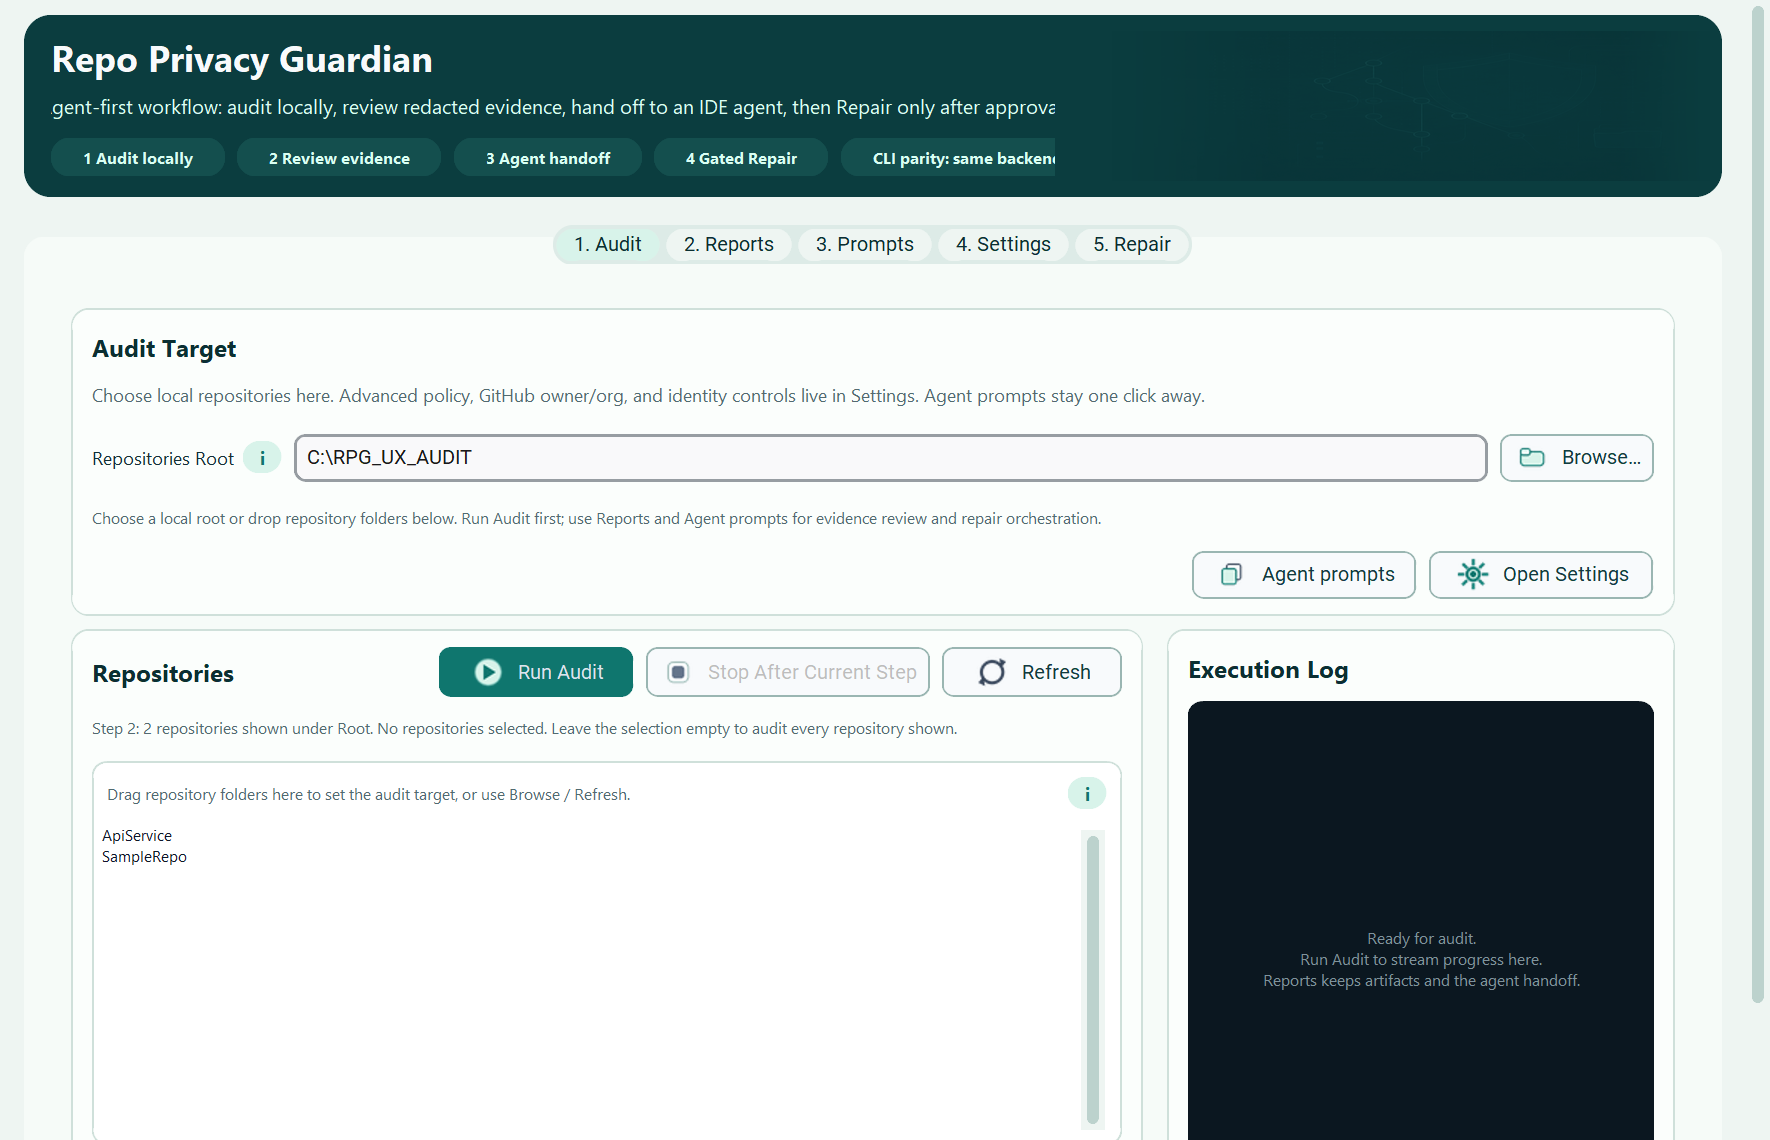
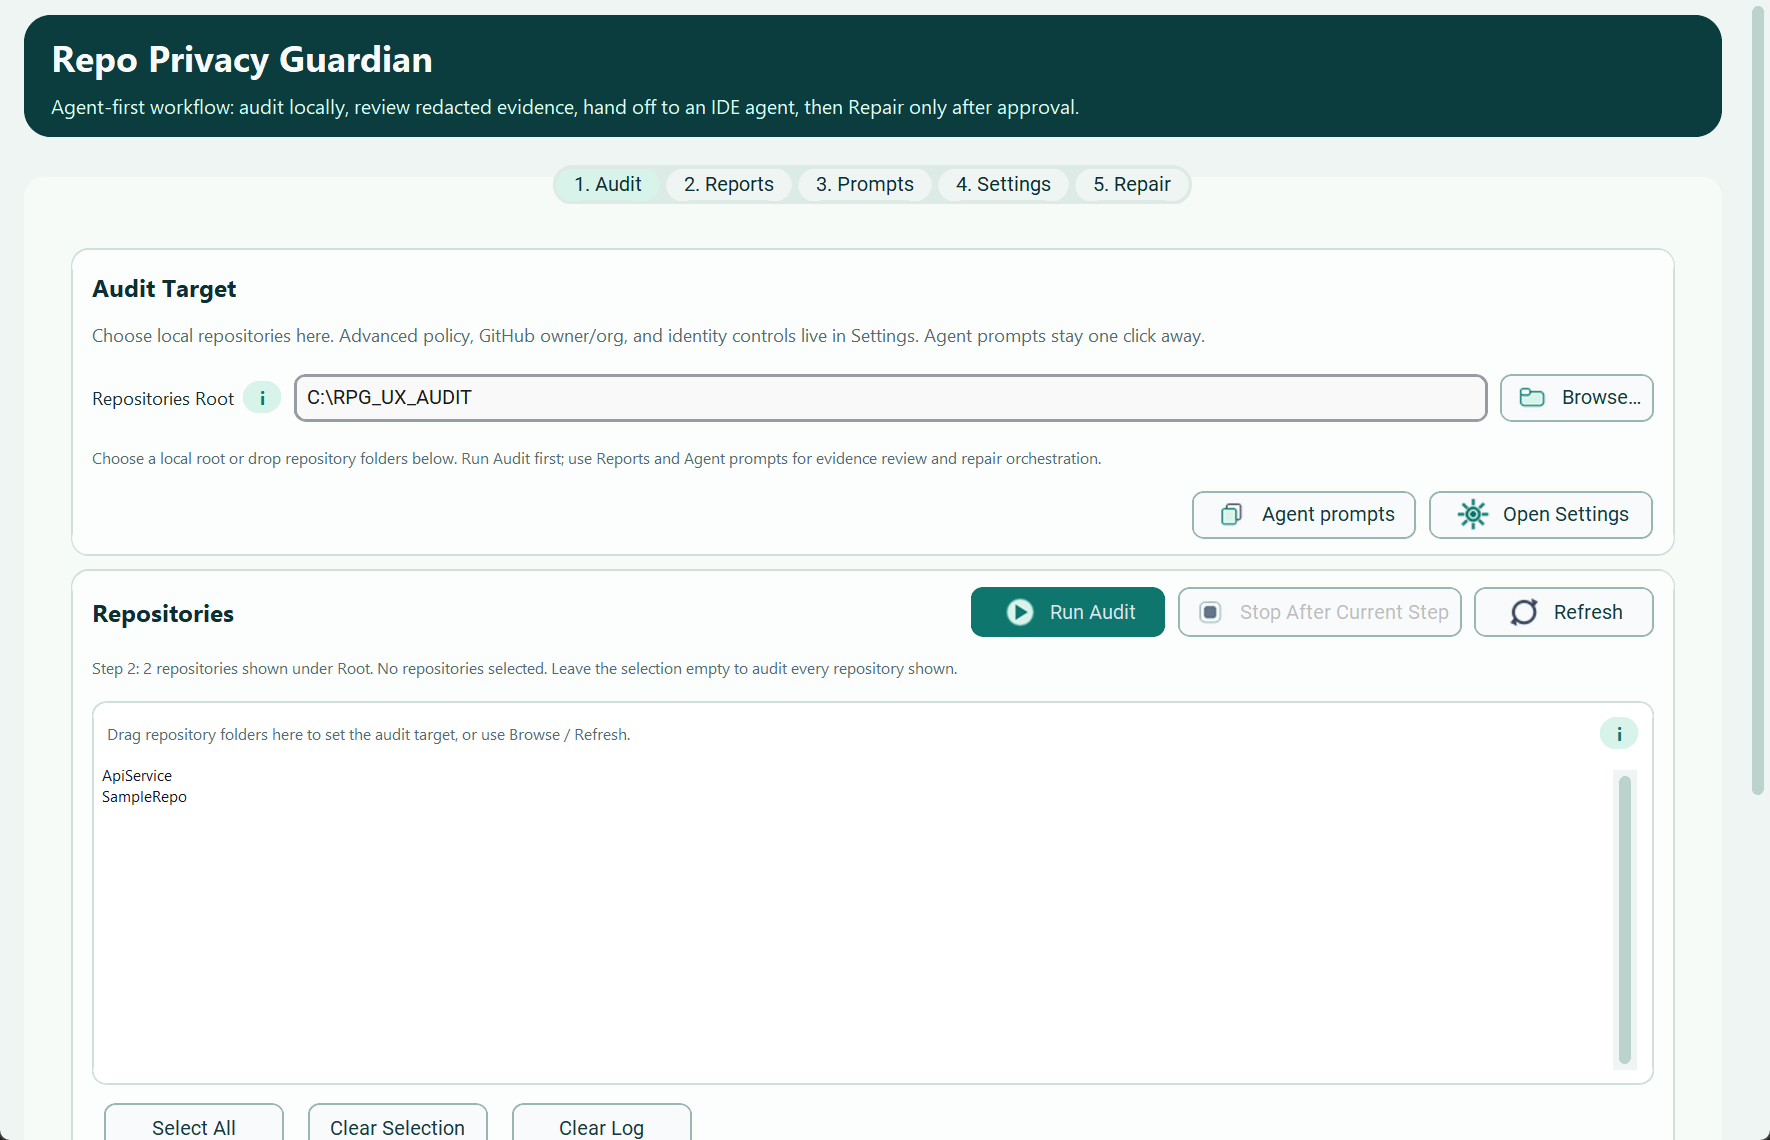
Harden responsive GUI prompts layout

diff --git a/tests/test_release_contract.py b/tests/test_release_contract.py
@@ -1144,18 +1144,131 @@ def test_gui_header_flow_strip_hides_on_compact_layout() -> None:
     assert strip.actions == ["grid_remove", "grid"]
 
 
-def test_gui_logical_window_width_uses_tk_geometry_without_dpi_double_scaling() -> None:
+def test_gui_logical_window_width_normalizes_high_dpi_geometry_once() -> None:
     class DummyRoot:
         def wm_geometry(self) -> str:
-            return "1440x860+30+30"
+            return "2160x1290+30+30"
 
         def winfo_width(self) -> int:
             return 900
 
+    class DummyScalingTracker:
+        @staticmethod
+        def get_window_scaling(_root: object) -> float:
+            return 1.5
+
+    class DummyCtk:
+        ScalingTracker = DummyScalingTracker
+
     app = object.__new__(rpg.GuiApp)
     app.root = DummyRoot()
+    app.ctk = DummyCtk()
 
     assert app._get_logical_window_width() == 1440
+
+
+def test_gui_prompt_cards_stack_on_compact_layout() -> None:
+    app = object.__new__(rpg.GuiApp)
+    app._prompts_stack_width_threshold = 1240
+
+    assert app._prompt_card_columns_for_width(1180) == 1
+    assert app._prompt_card_columns_for_width(1440) == 2
+
+
+def test_gui_prompt_workflow_guide_stacks_and_hides_visual_on_compact_layout() -> None:
+    class DummyGuide:
+        def __init__(self) -> None:
+            self.columns: list[tuple[int, dict[str, object]]] = []
+
+        def grid_columnconfigure(self, column: int, **kwargs: object) -> None:
+            self.columns.append((column, kwargs))
+
+    class DummyWidget:
+        def __init__(self) -> None:
+            self.grid_calls: list[dict[str, object]] = []
+            self.removed = False
+
+        def grid(self, **kwargs: object) -> None:
+            self.grid_calls.append(kwargs)
+            self.removed = False
+
+        def grid_remove(self) -> None:
+            self.removed = True
+
+    guide = DummyGuide()
+    title = DummyWidget()
+    body = DummyWidget()
+    visual = DummyWidget()
+    app = object.__new__(rpg.GuiApp)
+    app._prompts_workflow_guide = guide
+    app._prompts_workflow_title_label = title
+    app._prompts_workflow_body_label = body
+    app._prompts_visual_label = visual
+
+    app._apply_prompts_workflow_layout(compact=True)
+
+    assert guide.columns[-2:] == [(0, {"weight": 1}), (1, {"weight": 0})]
+    assert title.grid_calls[-1]["row"] == 0
+    assert title.grid_calls[-1]["column"] == 0
+    assert body.grid_calls[-1]["row"] == 1
+    assert body.grid_calls[-1]["column"] == 0
+    assert visual.removed is True
+
+    app._apply_prompts_workflow_layout(compact=False)
+
+    assert guide.columns[-2:] == [(0, {"weight": 0}), (1, {"weight": 1})]
+    assert body.grid_calls[-1]["row"] == 0
+    assert body.grid_calls[-1]["column"] == 1
+    assert visual.removed is False
+
+
+def test_gui_responsive_prompt_layout_regrids_without_rebuilding_cards() -> None:
+    class DummyRoot:
+        def wm_geometry(self) -> str:
+            return "1770x1140+40+40"
+
+        def winfo_width(self) -> int:
+            return 1770
+
+    class DummyScalingTracker:
+        @staticmethod
+        def get_window_scaling(_root: object) -> float:
+            return 1.5
+
+    class DummyCtk:
+        ScalingTracker = DummyScalingTracker
+
+    calls: list[tuple[str, object]] = []
+    app = object.__new__(rpg.GuiApp)
+    app.root = DummyRoot()
+    app.ctk = DummyCtk()
+    app._gui_destroying = False
+    app._top_stack_width_threshold = 1220
+    app._options_stack_width_threshold = 1220
+    app._results_stack_width_threshold = 1240
+    app._prompts_stack_width_threshold = 1240
+    app._prompt_card_column_count = 2
+    app._apply_header_flow_layout = lambda compact: calls.append(("header", compact))
+    app._apply_top_layout = lambda compact: calls.append(("top", compact))
+    app._apply_identity_actions_layout = lambda compact: calls.append(("identity", compact))
+    app._apply_options_layout = lambda compact: calls.append(("options", compact))
+    app._apply_results_layout = lambda compact: calls.append(("results", compact))
+    app._apply_prompts_workflow_layout = lambda compact: calls.append(("prompt_workflow", compact))
+    app._apply_prompt_cards_layout = lambda columns: calls.append(("prompt_cards", columns))
+    app._refresh_prompt_cards = lambda: (_ for _ in ()).throw(AssertionError("resize must not rebuild cards"))
+
+    app._apply_responsive_layout()
+
+    assert ("prompt_workflow", True) in calls
+    assert ("prompt_cards", 1) in calls
+
+
+def test_gui_resize_ignores_callbacks_while_root_is_destroying() -> None:
+    app = object.__new__(rpg.GuiApp)
+    app._gui_destroying = True
+    app._apply_responsive_layout = lambda: (_ for _ in ()).throw(AssertionError("destroying root must not relayout"))
+
+    app._on_root_resize(object())
 
 
 def test_gui_advanced_identity_settings_are_collapsible() -> None:

diff --git a/Repo_Privacy_Guardian.py b/Repo_Privacy_Guardian.py
@@ -7190,6 +7190,7 @@ class GuiApp:  # pragma: no cover
         self._top_stack_width_threshold = 1220
         self._options_stack_width_threshold = 1220
         self._results_stack_width_threshold = 1240
+        self._prompts_stack_width_threshold = 1240
         self.root.geometry(f"{window_w}x{window_h}+{window_x}+{window_y}")
         self.root.minsize(min(1180, screen_w), min(700, screen_h))
         self.root.maxsize(screen_w, screen_h)
@@ -7339,6 +7340,12 @@ class GuiApp:  # pragma: no cover
         self._reports_agent_handoff_button = None
         self._reports_action_buttons: list[object] = []
         self._prompt_cards_frame = None
+        self._prompt_card_widgets: list[object] = []
+        self._prompt_card_column_count = 2
+        self._prompts_workflow_guide = None
+        self._prompts_workflow_title_label = None
+        self._prompts_workflow_body_label = None
+        self._gui_destroying = False
         self._header_visual_label = None
         self._reports_visual_label = None
         self._prompts_visual_label = None
@@ -8817,6 +8824,7 @@ class GuiApp:  # pragma: no cover
 
         self.refresh_repos()
         self.root.bind("<Configure>", self._on_root_resize)
+        self.root.bind("<Destroy>", self._on_root_destroy, add="+")
         self.root.after(0, self._apply_responsive_layout)
         self._lock_repair_until_next_audit()
         self._set_active_flow_tab(self._audit_tab_name)
@@ -9247,9 +9255,10 @@ class GuiApp:  # pragma: no cover
             border_width=1,
             border_color=self._info_panel_border,
         )
+        self._prompts_workflow_guide = workflow_guide
         workflow_guide.grid(row=2, column=0, columnspan=2, sticky="we", padx=14, pady=(0, 12))
         workflow_guide.grid_columnconfigure(1, weight=1)
-        self._localize_widget(ctk.CTkLabel(
+        workflow_title_label = self._localize_widget(ctk.CTkLabel(
             workflow_guide,
             text=self._t("agent_workflow_title"),
             height=28,
@@ -9258,8 +9267,9 @@ class GuiApp:  # pragma: no cover
             text_color=self._success_text,
             font=self._font(11, bold=True),
             padx=12,
-        ), "text", "agent_workflow_title").grid(row=0, column=0, sticky="w", padx=10, pady=10)
-        self._localize_widget(ctk.CTkLabel(
+        ), "text", "agent_workflow_title")
+        self._prompts_workflow_title_label = workflow_title_label
+        workflow_body_label = self._localize_widget(ctk.CTkLabel(
             workflow_guide,
             text=self._t("agent_workflow_body"),
             justify="left",
@@ -9267,11 +9277,16 @@ class GuiApp:  # pragma: no cover
             wraplength=1040,
             font=self._font(12),
             text_color=self._text_body,
-        ), "text", "agent_workflow_body").grid(row=0, column=1, sticky="we", padx=(0, 10), pady=10)
+        ), "text", "agent_workflow_body")
+        self._prompts_workflow_body_label = workflow_body_label
+        self._apply_prompts_workflow_layout(compact=self._prompt_card_columns_for_width(self._get_logical_window_width()) == 1)
         self._prompt_cards_frame = ctk.CTkFrame(prompts_card, fg_color="transparent")
         self._prompt_cards_frame.grid(row=3, column=0, columnspan=2, sticky="we", padx=14, pady=(0, 12))
-        self._prompt_cards_frame.grid_columnconfigure((0, 1), weight=1)
         self._refresh_prompt_cards()
+
+    def _prompt_card_columns_for_width(self, width: int) -> int:
+        threshold = int(getattr(self, "_prompts_stack_width_threshold", 1240))
+        return 1 if width <= threshold else 2
 
     def _refresh_prompt_cards(self) -> None:
         cards_frame = getattr(self, "_prompt_cards_frame", None)
@@ -9279,11 +9294,12 @@ class GuiApp:  # pragma: no cover
             return
         for child in cards_frame.winfo_children():
             child.destroy()
+        self._prompt_card_widgets = []
+
+        columns = self._prompt_card_columns_for_width(self._get_logical_window_width())
 
         repo_root = Path(__file__).resolve().parent
         for idx, prompt in enumerate(prompt_helpers.agentic_prompt_cards(self._current_locale())):
-            row = idx // 2
-            column = idx % 2
             card = self.ctk.CTkFrame(
                 cards_frame,
                 fg_color=self._surface_alt,
@@ -9291,7 +9307,7 @@ class GuiApp:  # pragma: no cover
                 border_width=1,
                 border_color=self._card_border,
             )
-            card.grid(row=row, column=column, sticky="nsew", padx=(0 if column == 0 else 8, 8 if column == 0 else 0), pady=(0, 8))
+            self._prompt_card_widgets.append(card)
             card.grid_columnconfigure(0, weight=1)
             self.ctk.CTkLabel(
                 card,
@@ -9356,6 +9372,24 @@ class GuiApp:  # pragma: no cover
             )
             self._bind_tooltip_key(open_prompt_button, "open_prompt_file")
             open_prompt_button.grid(row=0, column=2, sticky="w")
+        self._apply_prompt_cards_layout(columns)
+
+    def _apply_prompt_cards_layout(self, columns: int) -> None:
+        cards_frame = getattr(self, "_prompt_cards_frame", None)
+        if cards_frame is None:
+            return
+        safe_columns = 1 if columns <= 1 else 2
+        self._prompt_card_column_count = safe_columns
+        for column_index in range(2):
+            cards_frame.grid_columnconfigure(column_index, weight=1 if column_index < safe_columns else 0)
+        for idx, card in enumerate(getattr(self, "_prompt_card_widgets", [])):
+            row = idx // safe_columns
+            column = idx % safe_columns
+            if safe_columns == 1:
+                padx = (0, 0)
+            else:
+                padx = (0 if column == 0 else 8, 8 if column == 0 else 0)
+            card.grid(row=row, column=column, sticky="nsew", padx=padx, pady=(0, 8))
 
     def _copy_text_to_clipboard(self, text: str, success_message: str) -> None:
         try:
@@ -9913,19 +9947,37 @@ class GuiApp:  # pragma: no cover
             width = int(width_text)
         except ValueError:
             width = self.root.winfo_width()
-        return max(0, int(width))
+        scale = 1.0
+        try:
+            scale = float(self.ctk.ScalingTracker.get_window_scaling(self.root))
+        except Exception:
+            pass
+        safe_scale = scale if scale > 0 else 1.0
+        return max(0, int(round(width / safe_scale)))
 
     def _on_root_resize(self, event) -> None:
         del event
+        if getattr(self, "_gui_destroying", False):
+            return
         self._apply_responsive_layout()
 
+    def _on_root_destroy(self, event) -> None:
+        if getattr(event, "widget", None) is self.root:
+            self._gui_destroying = True
+
     def _apply_responsive_layout(self) -> None:
+        if getattr(self, "_gui_destroying", False):
+            return
         width = self._get_logical_window_width()
         self._apply_header_flow_layout(compact=width <= self._top_stack_width_threshold)
         self._apply_top_layout(compact=width <= self._top_stack_width_threshold)
         self._apply_identity_actions_layout(compact=width <= self._top_stack_width_threshold)
         self._apply_options_layout(compact=width <= self._options_stack_width_threshold)
         self._apply_results_layout(compact=width <= self._results_stack_width_threshold)
+        prompt_columns = self._prompt_card_columns_for_width(width)
+        self._apply_prompts_workflow_layout(compact=prompt_columns == 1)
+        if prompt_columns != getattr(self, "_prompt_card_column_count", 2):
+            self._apply_prompt_cards_layout(prompt_columns)
 
     def _apply_header_flow_layout(self, compact: bool) -> None:
         if self._workflow_strip is None:
@@ -9944,6 +9996,39 @@ class GuiApp:  # pragma: no cover
             self._workflow_strip.grid_remove()
             if header_visual is not None:
                 header_visual.grid_remove()
+        except Exception:
+            return
+
+    def _apply_prompts_workflow_layout(self, compact: bool) -> None:
+        guide = getattr(self, "_prompts_workflow_guide", None)
+        title_label = getattr(self, "_prompts_workflow_title_label", None)
+        body_label = getattr(self, "_prompts_workflow_body_label", None)
+        visual_label = getattr(self, "_prompts_visual_label", None)
+        try:
+            if guide is not None:
+                guide.grid_columnconfigure(0, weight=1 if compact else 0)
+                guide.grid_columnconfigure(1, weight=0 if compact else 1)
+            if title_label is not None:
+                title_label.grid(
+                    row=0,
+                    column=0,
+                    sticky="w",
+                    padx=10,
+                    pady=(10, 4) if compact else 10,
+                )
+            if body_label is not None:
+                body_label.grid(
+                    row=1 if compact else 0,
+                    column=0 if compact else 1,
+                    sticky="we",
+                    padx=10 if compact else (0, 10),
+                    pady=(0, 10) if compact else 10,
+                )
+            if visual_label is not None:
+                if compact:
+                    visual_label.grid_remove()
+                else:
+                    visual_label.grid()
         except Exception:
             return
 

diff --git a/docs/UX_UI_AUDIT.md b/docs/UX_UI_AUDIT.md
@@ -237,7 +237,7 @@ Findings:
 
 - The Audit screen was clean but still underplayed the mandatory agentic workflow. A new user could run an audit, then miss that `Reports` and `Prompts` are the intended bridge into Codex, Claude Code, Antigravity, GitHub Copilot, Cursor, or similar IDEs.
 - The execution log empty state existed in code but could render underneath the `CTkTextbox`, making the right-hand panel look blank in the first-run screenshot.
-- High-DPI Windows windows could be classified as compact because Tk geometry was divided by the CustomTkinter scaling factor even though Tk already reports the real window geometry. This hid the header workflow chips on wide desktop screenshots.
+- High-DPI Windows windows need responsive decisions based on logical UI width, not raw physical pixels. Without that normalization, compact screenshots could keep desktop-only header chips visible and clip guidance.
 - Light and dark themes both worked without new raster assets. The current asset set already supports the needed state visuals; this pass needed hierarchy and responsive fixes, not additional generated imagery.
 
 Corrections applied:
@@ -245,8 +245,9 @@ Corrections applied:
 - Rewrote the GUI header around the explicit `Audit locally -> Review evidence -> Agent handoff -> Gated Repair` path.
 - Added a direct `Agent prompts` shortcut from Audit to the Prompts tab so the agent-first workflow is discoverable without making the first screen heavier.
 - Added a short guide at the top of the Prompts tab and numbered prompt cards so the operator sees environment prep, audit-only, reviewed repair, and compact CLI delegation as one staged flow.
+- Made Prompt cards responsive: two columns on wide desktop, one column near the compact minimum width, with the workflow guide stacked and the decorative visual hidden to preserve text width.
 - Moved the execution-log empty label into the textbox overlay layer so it is visible until real output is written.
-- Fixed logical window-width detection to use Tk geometry directly, avoiding DPI double-scaling and preserving the desktop layout on high-DPI displays.
+- Fixed logical window-width detection to normalize Tk physical geometry once through the CustomTkinter scaling factor, preserving desktop layout on wide windows and compact layout near the minimum width.
 - Refreshed the tracked light-mode screenshots with neutral paths and kept a local dark-mode QA capture under ignored workspace metadata.
 
 Validation notes:

diff --git a/CHANGELOG.md b/CHANGELOG.md
@@ -8,6 +8,7 @@ All notable user-facing changes to this project are documented here.
 
 - Reframed the GUI first-screen hierarchy around the agent-first workflow: local audit, redacted evidence review, agent handoff, and gated repair.
 - Added an Audit-screen shortcut into the GUI Prompts tab and a prompt-library guide that makes the agentic orchestration layer visible without changing CLI behavior.
+- Made GUI prompt cards stack on compact widths so the agentic workflow remains readable near the minimum desktop size.
 - Refreshed tracked GUI screenshots after the agent-first visual QA pass, keeping visible paths sanitized.
 - Added a packaged GUI raster asset set for the window icon, header watermark, repository empty state, reports, prompts, repair gate visuals, and DPI-aware action icons.
 - Adjusted the GUI Refresh action to secondary-button styling so its icon remains readable and added smoke coverage for visible Prompt cards.
@@ -31,7 +32,7 @@ All notable user-facing changes to this project are documented here.
 ### Fixed
 
 - Fixed the GUI execution-log empty state so it renders above the log textbox in both light and dark mode.
-- Fixed GUI responsive width detection on high-DPI Windows so wide desktop windows do not incorrectly fall into compact layout.
+- Fixed GUI responsive width detection on high-DPI Windows by normalizing Tk physical geometry back to one logical UI width.
 
 ## [1.4.5] - 2026-04-28
 